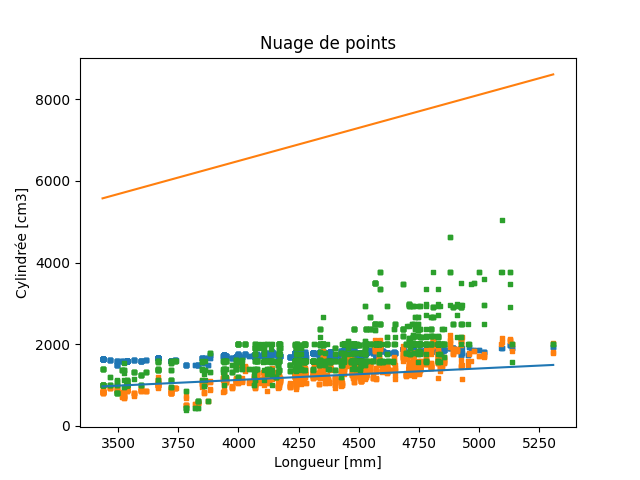
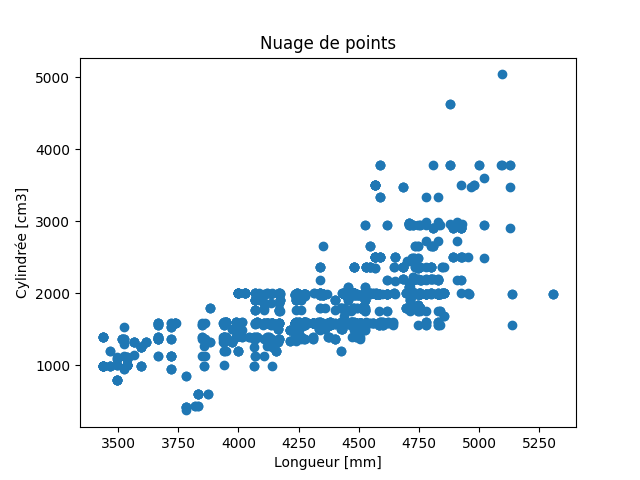
Add files via upload

diff --git a/acp.py b/acp.py
@@ -74,8 +74,9 @@ def nuagePoints(file, variable1, variable2):
             x.append(int(ligne[variable1].value))      
             y.append(int(ligne[variable2].value))
         n += 1    
-    
-    matplotlib.pyplot.scatter(x, y, marker ="s", s=5)  
+
+    matplotlib.pyplot.subplots()
+    matplotlib.pyplot.scatter(x, y)  
     matplotlib.pyplot.title('Nuage de points')
     matplotlib.pyplot.xlabel(variableName1)
     matplotlib.pyplot.ylabel(variableName2)

diff --git a/regressionLineaire.py b/regressionLineaire.py
@@ -113,7 +113,8 @@ def courbesRegression(file, column1, column2):
     columnName1 = columnName1.replace("/",".")
     columnName2 = columnName2.replace("/",".")
 
-    plt.plot(x, y)
+    plt.subplot()
+    plt.plot(x, y, 'r-')
     plt.savefig("./save-data/courbe-regression/courbe-"+ columnName1 + "-" + columnName2 +".png")
 
 """

diff --git a/test.py b/test.py
@@ -5,4 +5,6 @@ import acp, regressionLineaire
 file = acp.openXLSX("./carDB.xlsx")
 acp.cleanRow(file)
 
+#regressionLineaire.generateAllCourbe(file)
+
 regressionLineaire.generateAllCourbe(file)
